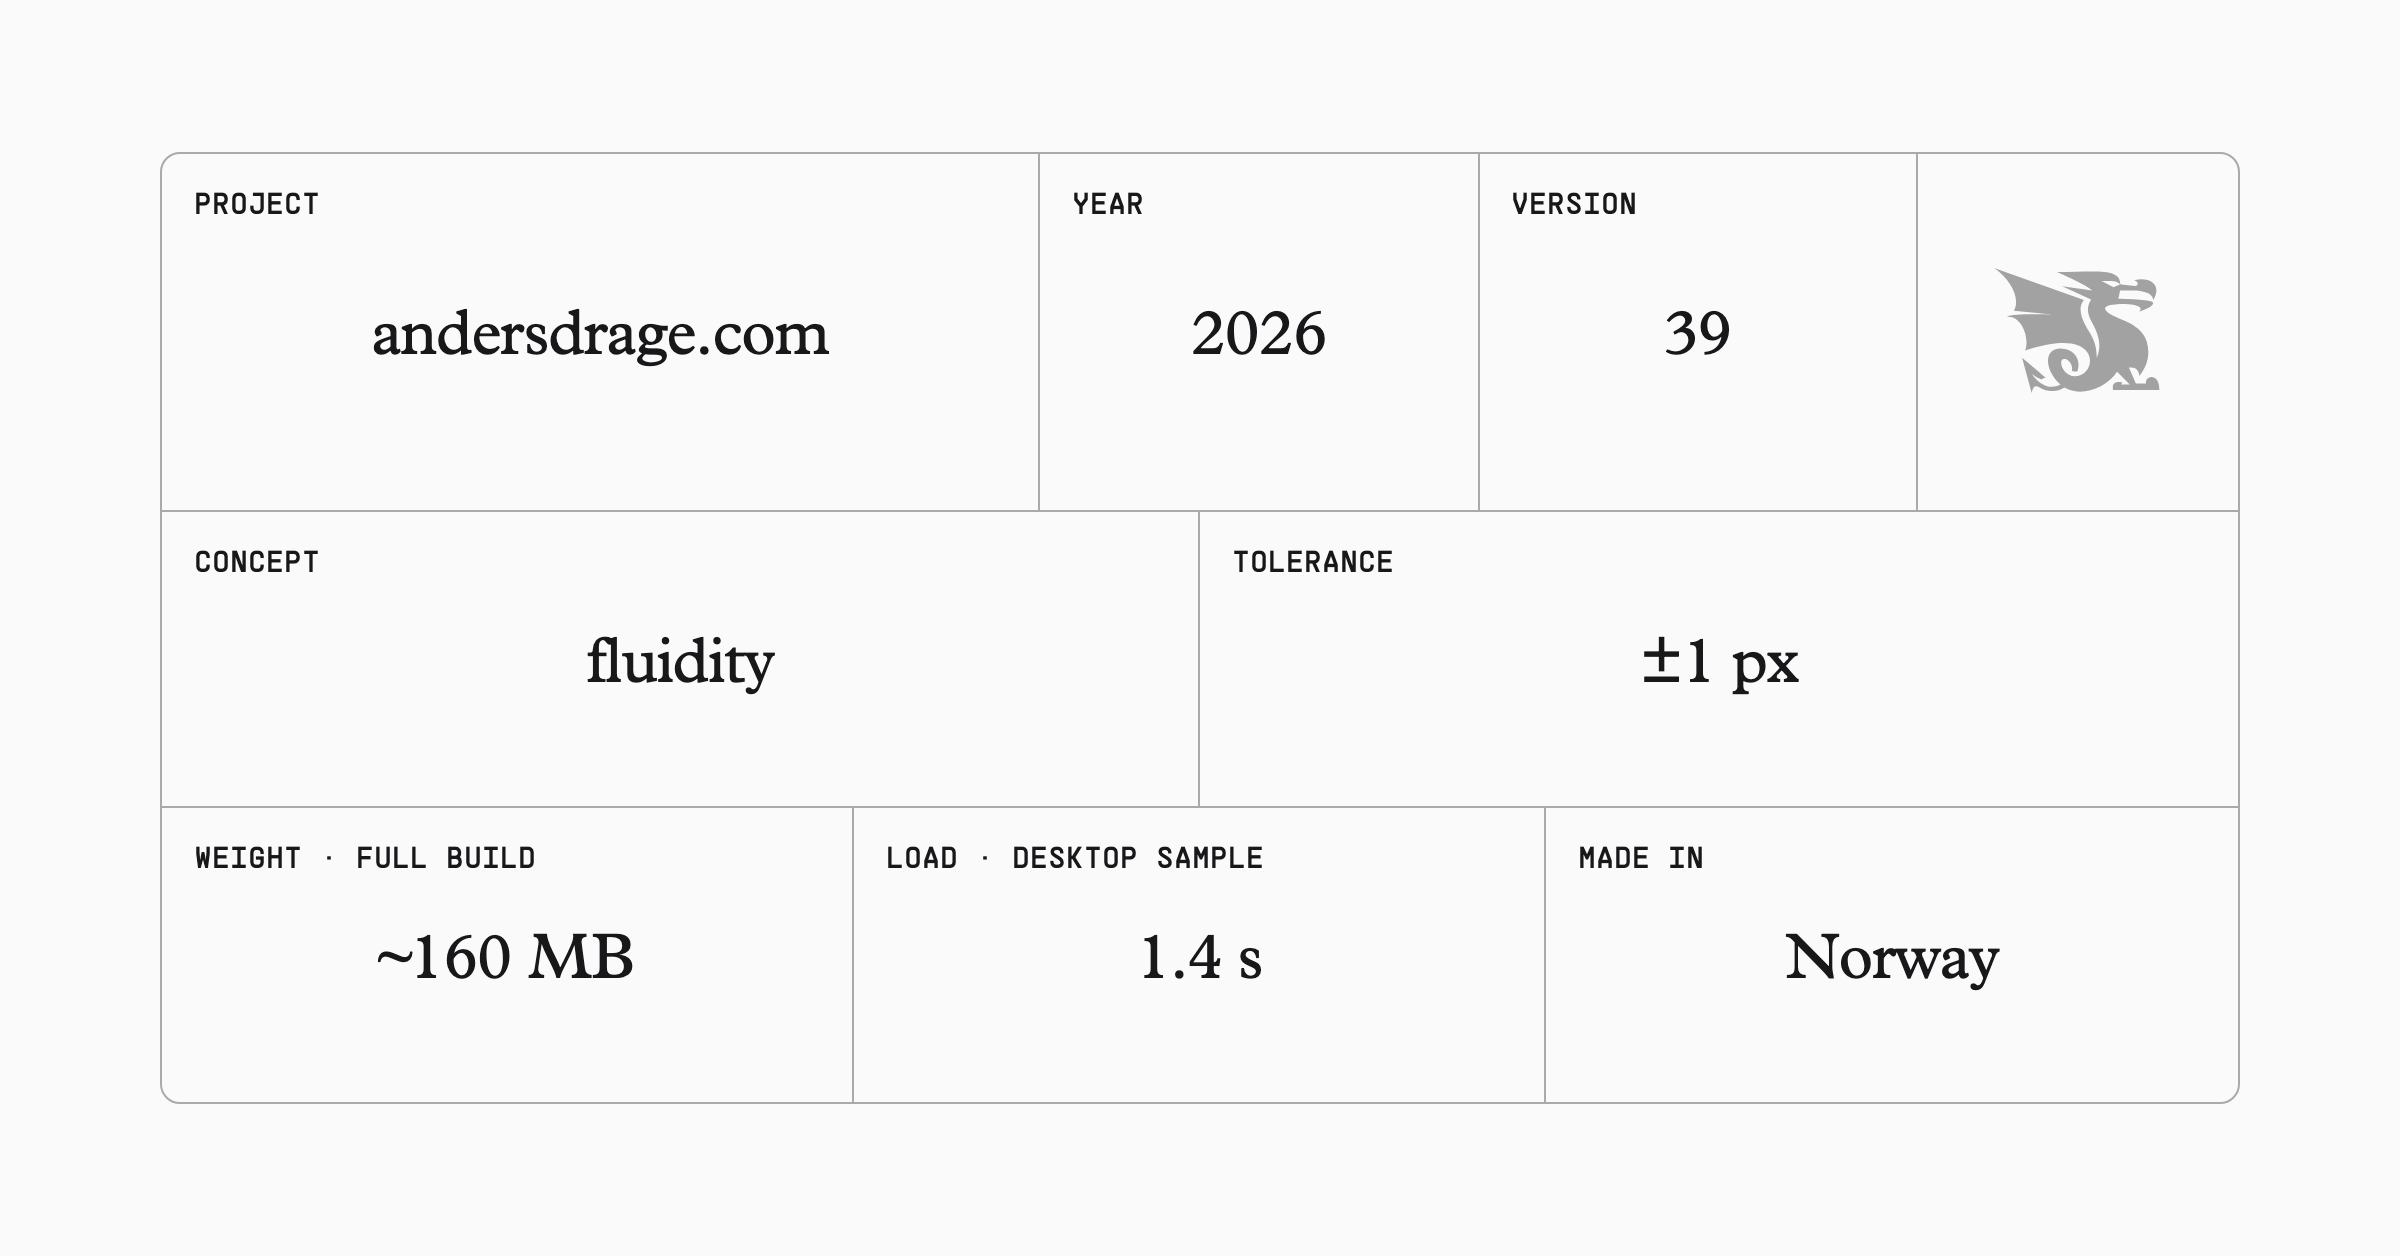
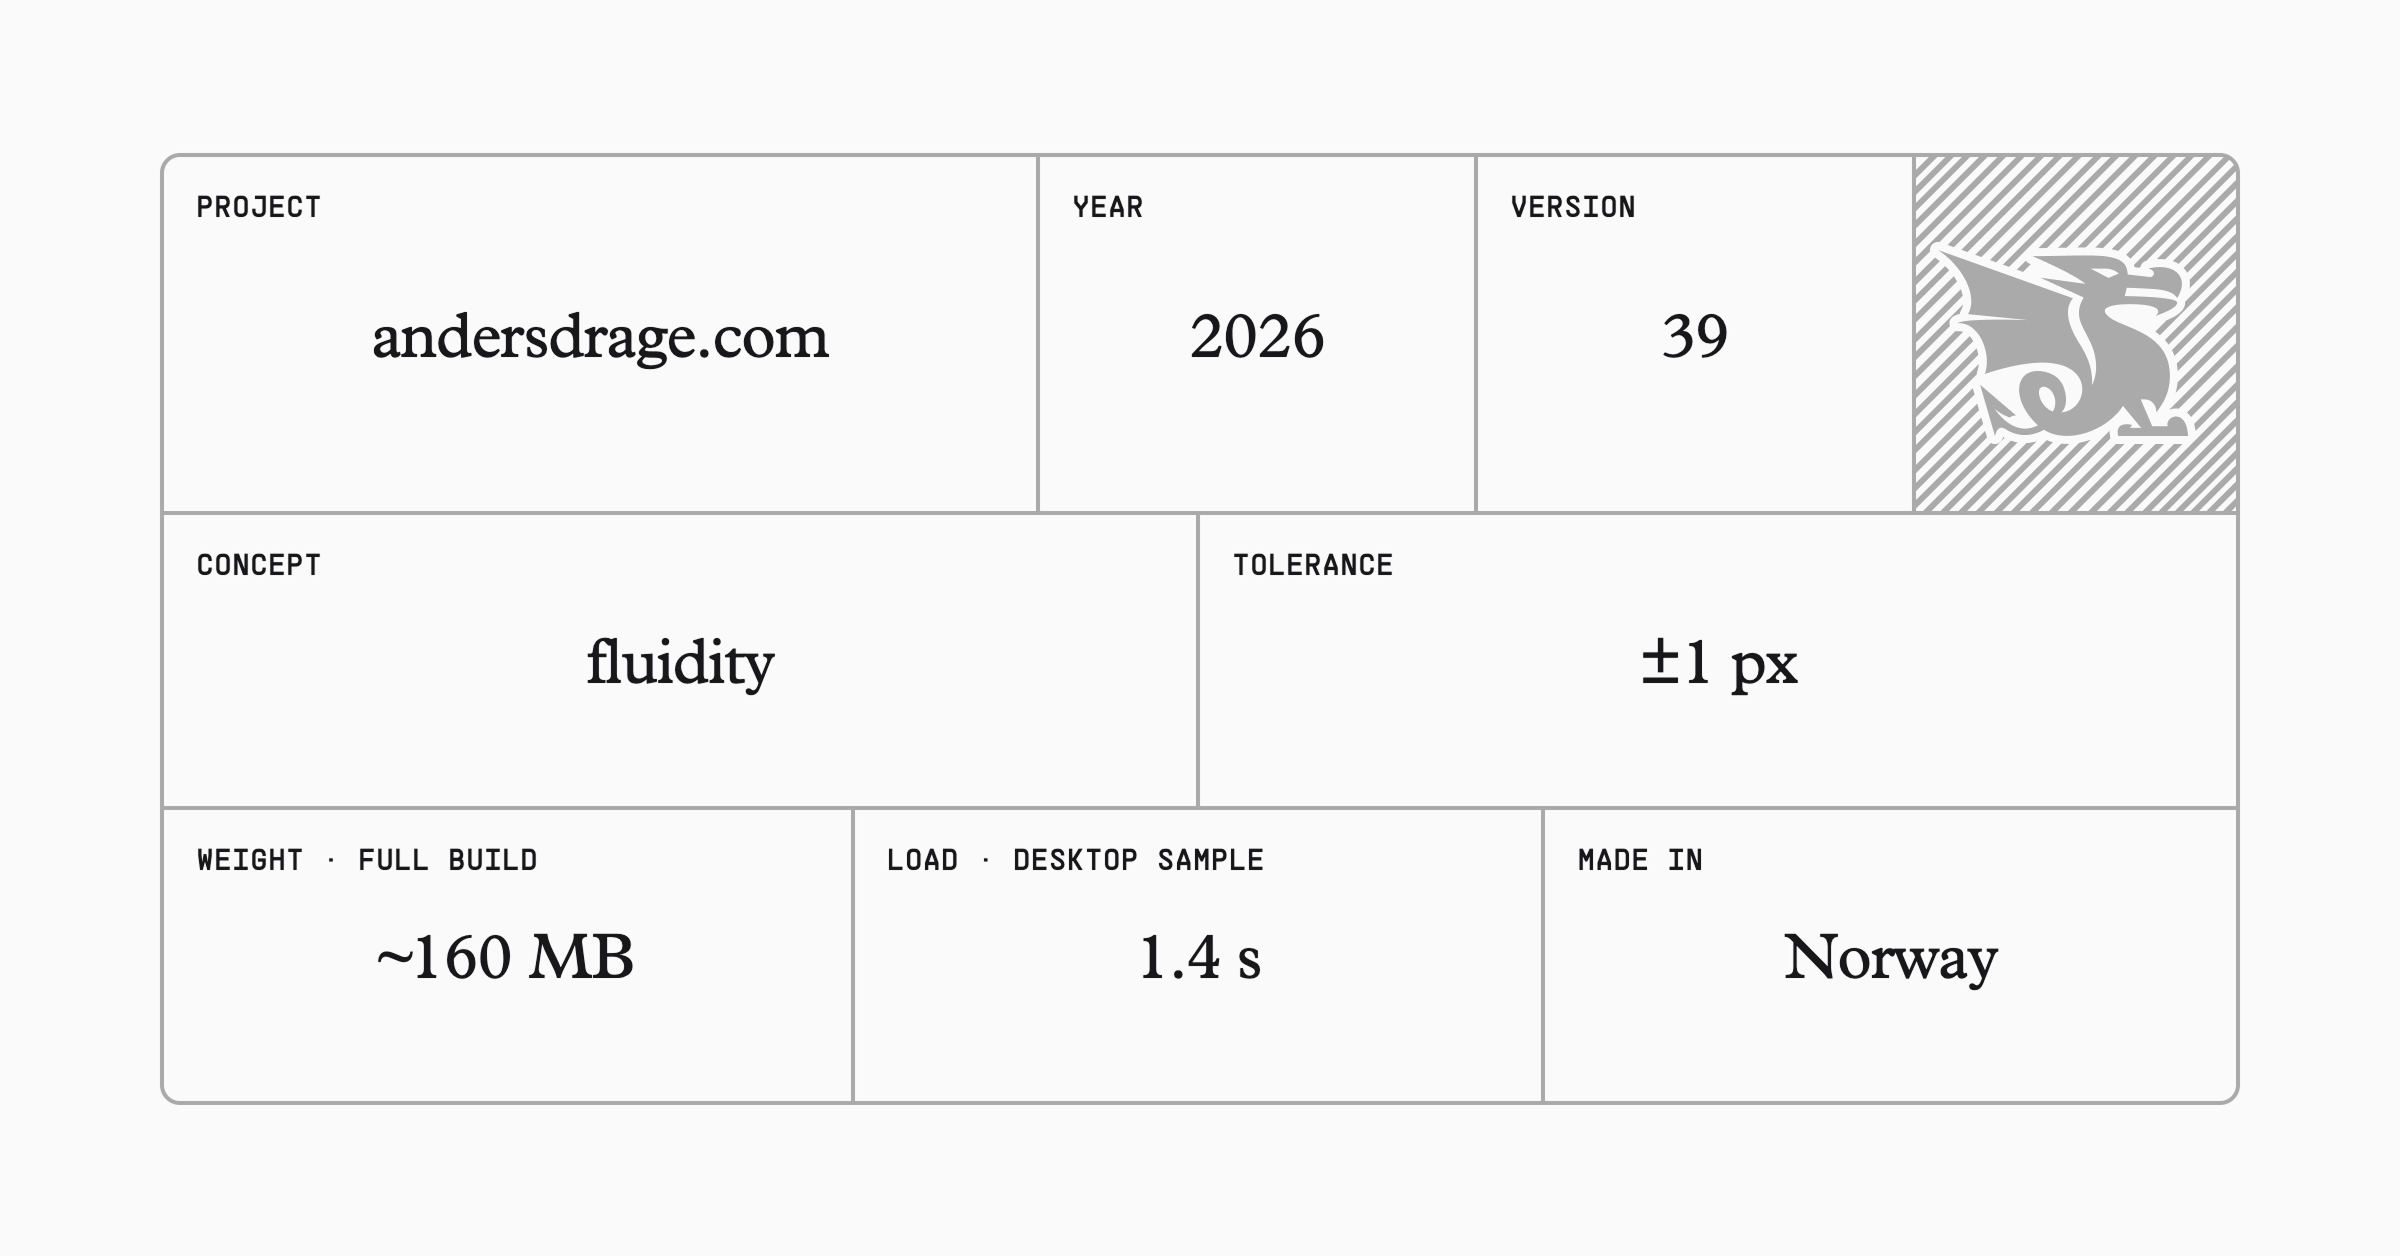
Use newly uploaded sharing image with a fresh image URL

diff --git a/archived-work/index.html b/archived-work/index.html
@@ -13,11 +13,11 @@
     <meta property="og:title" content="Archived work – Anders Drage" />
     <meta property="og:description" content="Product, brand, and marketing design by Anders Drage." />
     <meta property="og:type" content="website" />
-    <meta property="og:image" content="https://orca.andersdrage.com/images/sharing-image-4.png" />
+    <meta property="og:image" content="https://orca.andersdrage.com/images/sharing-image-3.png?v=1ada1116b6b0" />
     <meta property="og:image:width" content="2400" />
     <meta property="og:image:height" content="1256" />
     <meta name="twitter:card" content="summary_large_image" />
-    <meta name="twitter:image" content="https://orca.andersdrage.com/images/sharing-image-4.png" />
+    <meta name="twitter:image" content="https://orca.andersdrage.com/images/sharing-image-3.png?v=1ada1116b6b0" />
     <title>Archived work – Anders Drage</title>
     <link rel="stylesheet" href="/layout.css" />
     <link rel="stylesheet" href="/src/style.css" />

diff --git a/micromilspec/index.html b/micromilspec/index.html
@@ -17,11 +17,11 @@
     <meta property="og:title" content="MICROMILSPEC – Anders Drage" />
     <meta property="og:description" content="Product, brand, and marketing design by Anders Drage." />
     <meta property="og:type" content="website" />
-    <meta property="og:image" content="https://orca.andersdrage.com/images/sharing-image-4.png" />
+    <meta property="og:image" content="https://orca.andersdrage.com/images/sharing-image-3.png?v=1ada1116b6b0" />
     <meta property="og:image:width" content="2400" />
     <meta property="og:image:height" content="1256" />
     <meta name="twitter:card" content="summary_large_image" />
-    <meta name="twitter:image" content="https://orca.andersdrage.com/images/sharing-image-4.png" />
+    <meta name="twitter:image" content="https://orca.andersdrage.com/images/sharing-image-3.png?v=1ada1116b6b0" />
     <title>MICROMILSPEC – Anders Drage</title>
     <link rel="stylesheet" href="/layout.css" />
     <link rel="stylesheet" href="/src/style.css" />

diff --git a/boligmappa/index.html b/boligmappa/index.html
@@ -17,11 +17,11 @@
     <meta property="og:title" content="Boligmappa – Anders Drage" />
     <meta property="og:description" content="Product, brand, and marketing design by Anders Drage." />
     <meta property="og:type" content="website" />
-    <meta property="og:image" content="https://orca.andersdrage.com/images/sharing-image-4.png" />
+    <meta property="og:image" content="https://orca.andersdrage.com/images/sharing-image-3.png?v=1ada1116b6b0" />
     <meta property="og:image:width" content="2400" />
     <meta property="og:image:height" content="1256" />
     <meta name="twitter:card" content="summary_large_image" />
-    <meta name="twitter:image" content="https://orca.andersdrage.com/images/sharing-image-4.png" />
+    <meta name="twitter:image" content="https://orca.andersdrage.com/images/sharing-image-3.png?v=1ada1116b6b0" />
     <title>Boligmappa – Anders Drage</title>
     <link rel="stylesheet" href="/layout.css" />
     <link rel="stylesheet" href="/src/style.css" />

diff --git a/nettavisen/index.html b/nettavisen/index.html
@@ -17,11 +17,11 @@
     <meta property="og:title" content="Nettavisen – Anders Drage" />
     <meta property="og:description" content="Product, brand, and marketing design by Anders Drage." />
     <meta property="og:type" content="website" />
-    <meta property="og:image" content="https://orca.andersdrage.com/images/sharing-image-4.png" />
+    <meta property="og:image" content="https://orca.andersdrage.com/images/sharing-image-3.png?v=1ada1116b6b0" />
     <meta property="og:image:width" content="2400" />
     <meta property="og:image:height" content="1256" />
     <meta name="twitter:card" content="summary_large_image" />
-    <meta name="twitter:image" content="https://orca.andersdrage.com/images/sharing-image-4.png" />
+    <meta name="twitter:image" content="https://orca.andersdrage.com/images/sharing-image-3.png?v=1ada1116b6b0" />
     <title>Nettavisen – Anders Drage</title>
     <link rel="stylesheet" href="/layout.css" />
     <link rel="stylesheet" href="/src/style.css" />

diff --git a/off-market/index.html b/off-market/index.html
@@ -17,11 +17,11 @@
     <meta property="og:title" content="Off Market – Anders Drage" />
     <meta property="og:description" content="Product, brand, and marketing design by Anders Drage." />
     <meta property="og:type" content="website" />
-    <meta property="og:image" content="https://orca.andersdrage.com/images/sharing-image-4.png" />
+    <meta property="og:image" content="https://orca.andersdrage.com/images/sharing-image-3.png?v=1ada1116b6b0" />
     <meta property="og:image:width" content="2400" />
     <meta property="og:image:height" content="1256" />
     <meta name="twitter:card" content="summary_large_image" />
-    <meta name="twitter:image" content="https://orca.andersdrage.com/images/sharing-image-4.png" />
+    <meta name="twitter:image" content="https://orca.andersdrage.com/images/sharing-image-3.png?v=1ada1116b6b0" />
     <title>Off Market – Anders Drage</title>
     <link rel="stylesheet" href="/layout.css" />
     <link rel="stylesheet" href="/src/style.css" />

diff --git a/houeland/index.html b/houeland/index.html
@@ -17,11 +17,11 @@
     <meta property="og:title" content="Houeland – Anders Drage" />
     <meta property="og:description" content="Product, brand, and marketing design by Anders Drage." />
     <meta property="og:type" content="website" />
-    <meta property="og:image" content="https://orca.andersdrage.com/images/sharing-image-4.png" />
+    <meta property="og:image" content="https://orca.andersdrage.com/images/sharing-image-3.png?v=1ada1116b6b0" />
     <meta property="og:image:width" content="2400" />
     <meta property="og:image:height" content="1256" />
     <meta name="twitter:card" content="summary_large_image" />
-    <meta name="twitter:image" content="https://orca.andersdrage.com/images/sharing-image-4.png" />
+    <meta name="twitter:image" content="https://orca.andersdrage.com/images/sharing-image-3.png?v=1ada1116b6b0" />
     <title>Houeland – Anders Drage</title>
     <link rel="stylesheet" href="/layout.css" />
     <link rel="stylesheet" href="/src/style.css" />

diff --git a/finn/index.html b/finn/index.html
@@ -17,11 +17,11 @@
     <meta property="og:title" content="FINN.no – Anders Drage" />
     <meta property="og:description" content="Product, brand, and marketing design by Anders Drage." />
     <meta property="og:type" content="website" />
-    <meta property="og:image" content="https://orca.andersdrage.com/images/sharing-image-4.png" />
+    <meta property="og:image" content="https://orca.andersdrage.com/images/sharing-image-3.png?v=1ada1116b6b0" />
     <meta property="og:image:width" content="2400" />
     <meta property="og:image:height" content="1256" />
     <meta name="twitter:card" content="summary_large_image" />
-    <meta name="twitter:image" content="https://orca.andersdrage.com/images/sharing-image-4.png" />
+    <meta name="twitter:image" content="https://orca.andersdrage.com/images/sharing-image-3.png?v=1ada1116b6b0" />
     <title>FINN.no – Anders Drage</title>
     <link rel="stylesheet" href="/layout.css" />
     <link rel="stylesheet" href="/src/style.css" />

diff --git a/history/index.html b/history/index.html
@@ -13,11 +13,11 @@
     <meta property="og:title" content="History – Anders Drage" />
     <meta property="og:description" content="Product, brand, and marketing design by Anders Drage." />
     <meta property="og:type" content="website" />
-    <meta property="og:image" content="https://orca.andersdrage.com/images/sharing-image-4.png" />
+    <meta property="og:image" content="https://orca.andersdrage.com/images/sharing-image-3.png?v=1ada1116b6b0" />
     <meta property="og:image:width" content="2400" />
     <meta property="og:image:height" content="1256" />
     <meta name="twitter:card" content="summary_large_image" />
-    <meta name="twitter:image" content="https://orca.andersdrage.com/images/sharing-image-4.png" />
+    <meta name="twitter:image" content="https://orca.andersdrage.com/images/sharing-image-3.png?v=1ada1116b6b0" />
     <title>History – Anders Drage</title>
     <link rel="stylesheet" href="/layout.css" />
     <link rel="stylesheet" href="/src/style.css" />

diff --git a/hjemla/index.html b/hjemla/index.html
@@ -17,11 +17,11 @@
     <meta property="og:title" content="Hjemla – Anders Drage" />
     <meta property="og:description" content="Product, brand, and marketing design by Anders Drage." />
     <meta property="og:type" content="website" />
-    <meta property="og:image" content="https://orca.andersdrage.com/images/sharing-image-4.png" />
+    <meta property="og:image" content="https://orca.andersdrage.com/images/sharing-image-3.png?v=1ada1116b6b0" />
     <meta property="og:image:width" content="2400" />
     <meta property="og:image:height" content="1256" />
     <meta name="twitter:card" content="summary_large_image" />
-    <meta name="twitter:image" content="https://orca.andersdrage.com/images/sharing-image-4.png" />
+    <meta name="twitter:image" content="https://orca.andersdrage.com/images/sharing-image-3.png?v=1ada1116b6b0" />
     <title>Hjemla – Anders Drage</title>
     <link rel="stylesheet" href="/layout.css" />
     <link rel="stylesheet" href="/src/style.css" />

diff --git a/people/index.html b/people/index.html
@@ -13,11 +13,11 @@
     <meta property="og:title" content="People – Anders Drage" />
     <meta property="og:description" content="Product, brand, and marketing design by Anders Drage." />
     <meta property="og:type" content="website" />
-    <meta property="og:image" content="https://orca.andersdrage.com/images/sharing-image-4.png" />
+    <meta property="og:image" content="https://orca.andersdrage.com/images/sharing-image-3.png?v=1ada1116b6b0" />
     <meta property="og:image:width" content="2400" />
     <meta property="og:image:height" content="1256" />
     <meta name="twitter:card" content="summary_large_image" />
-    <meta name="twitter:image" content="https://orca.andersdrage.com/images/sharing-image-4.png" />
+    <meta name="twitter:image" content="https://orca.andersdrage.com/images/sharing-image-3.png?v=1ada1116b6b0" />
     <title>People – Anders Drage</title>
     <link rel="stylesheet" href="/layout.css" />
     <link rel="stylesheet" href="/src/style.css" />

diff --git a/uber/index.html b/uber/index.html
@@ -17,11 +17,11 @@
     <meta property="og:title" content="Uber – Anders Drage" />
     <meta property="og:description" content="Product, brand, and marketing design by Anders Drage." />
     <meta property="og:type" content="website" />
-    <meta property="og:image" content="https://orca.andersdrage.com/images/sharing-image-4.png" />
+    <meta property="og:image" content="https://orca.andersdrage.com/images/sharing-image-3.png?v=1ada1116b6b0" />
     <meta property="og:image:width" content="2400" />
     <meta property="og:image:height" content="1256" />
     <meta name="twitter:card" content="summary_large_image" />
-    <meta name="twitter:image" content="https://orca.andersdrage.com/images/sharing-image-4.png" />
+    <meta name="twitter:image" content="https://orca.andersdrage.com/images/sharing-image-3.png?v=1ada1116b6b0" />
     <title>Uber – Anders Drage</title>
     <link rel="stylesheet" href="/layout.css" />
     <link rel="stylesheet" href="/src/style.css" />

diff --git a/about/index.html b/about/index.html
@@ -16,11 +16,11 @@
     <meta property="og:title" content="Anders Drage" />
     <meta property="og:description" content="Product, brand, and marketing design by Anders Drage." />
     <meta property="og:type" content="website" />
-    <meta property="og:image" content="https://orca.andersdrage.com/images/sharing-image-4.png" />
+    <meta property="og:image" content="https://orca.andersdrage.com/images/sharing-image-3.png?v=1ada1116b6b0" />
     <meta property="og:image:width" content="2400" />
     <meta property="og:image:height" content="1256" />
     <meta name="twitter:card" content="summary_large_image" />
-    <meta name="twitter:image" content="https://orca.andersdrage.com/images/sharing-image-4.png" />
+    <meta name="twitter:image" content="https://orca.andersdrage.com/images/sharing-image-3.png?v=1ada1116b6b0" />
     <title>Anders Drage</title>
     <link rel="stylesheet" href="/layout.css" />
     <link rel="stylesheet" href="/src/style.css" />
